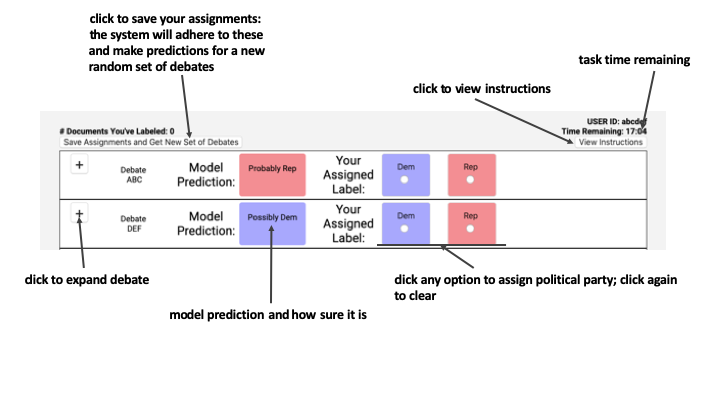
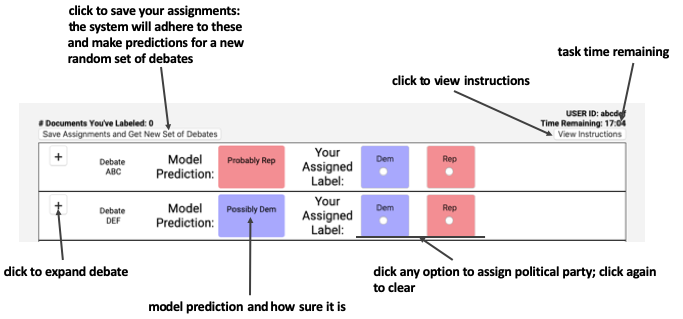
more instruction updates

diff --git a/index2.html b/index2.html
@@ -282,13 +282,18 @@
                     <li>Click the radio buttons to {{ perceivedControl ? 'assign' : 'suggest' }} the political party label for the speaker. Click again to clear the label.</li>
                   </ul>
                 </li>
-                <li>Click the "Save and Get New Set of Debates"
-                button at any point to save your {{ perceivedControl ? 'assignments' : 'suggestions' }} to the system, which it {{ perceivedControl ? 'adheres to' : 'considers'}} to update the model and then predicts the the party affiliation for the next random set of debates.</li>
+                <li>Click "Save and Get New Set of Debates"
+                at any point to save your {{ perceivedControl ? 'assignments' : 'suggestions' }} to the system, which it {{ perceivedControl ? 'adheres to' : 'considers'}} to update the model and then predicts the the party affiliation for the next random set of debates.</li>
               </ul>
               </div>
               <div class="image-holder"><img class="modal-image" :src="getScreenshotUrl()" /></div>
               <div>
-              Remember, the goal is to correctly determine the political party of the speaker for as many debate speeches as possible. There isn't enough time to read and label all of the speeches yourself, so you'll help the system learn a model that distinguishes between republican and democrat speakers. After 20 minutes, the system will use the final version of the model to label the speeches, and you will be given <span class="bold">up to a $5 bonus based on how many are correct.</span> You can revisit these instructions at any time by clicking the “View Instructions" button.
+                <ul>
+                  <li>Remember, the goal is to correctly determine the political party of the speaker for as many debate speeches as possible.</li>
+                  <li>There isn't enough time to read and label all of the speeches yourself, so you'll help the system learn a model that distinguishes between republican and democrat speakers.</li> <li>After 20 minutes, the system will use the final version of the model to label the speeches.</li>
+                  <li>You will be given <span class="bold">up to a $5 bonus based on how many are correct.</span></li>
+                  <li>You can revisit these instructions at any time by clicking the “View Instructions" button.</li>
+                </ul>
               </div>
             </span>
           </div> <!-- Modal body -->

diff --git a/static/styles/modal.css b/static/styles/modal.css
@@ -6,6 +6,7 @@ Modal css from https://alligator.io/vuejs/vue-modal-component/
 }
 
 .modal-image {
+  width: 100%;
   max-width: 1000px;
   margin: auto;
 }
@@ -39,7 +40,7 @@ Modal css from https://alligator.io/vuejs/vue-modal-component/
   display: flex;
   flex-direction: column;
   overflow-y: auto;
-  height: 90%;
+  max-height: 90%;
 }
 
 .modal-header {
@@ -48,6 +49,7 @@ Modal css from https://alligator.io/vuejs/vue-modal-component/
 }
 .modal-footer {
   padding: 15px;
+  display: flex;
 }
 
 .modal-header {
